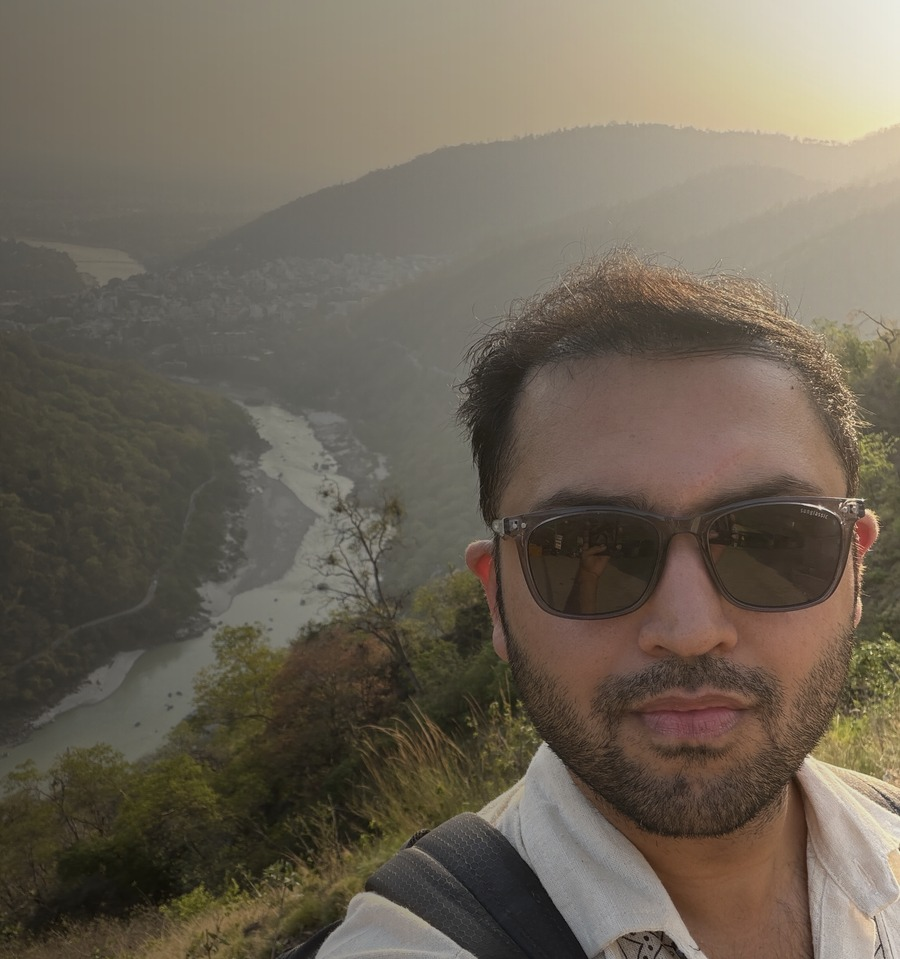
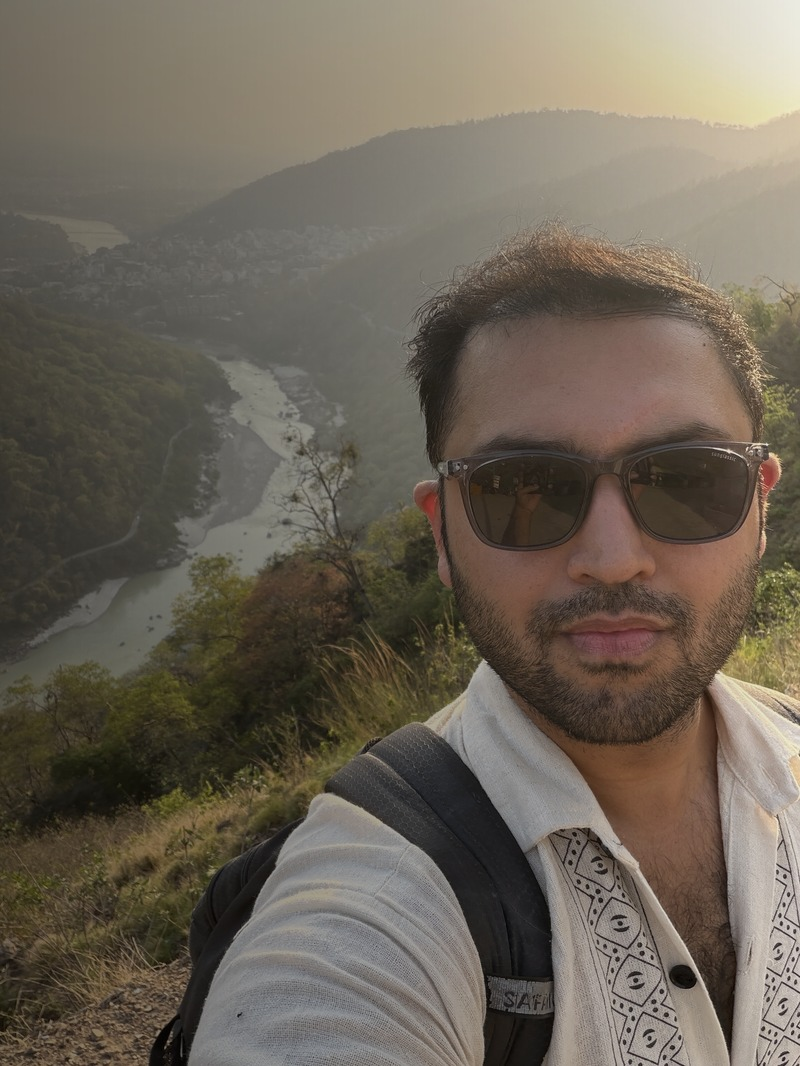
Add files via upload

diff --git a/index.html b/index.html
@@ -70,7 +70,7 @@
       position: absolute; inset: 0;
       background: linear-gradient(to right, rgba(10,10,10,0.72) 0%, rgba(10,10,10,0.45) 55%, rgba(10,10,10,0.15) 100%);
     }
-    .hero-slide.personal .slide-bg { background-position: center 70% !important; }
+    .hero-slide.personal .slide-bg { background-position: center 45% !important; }
     .personal .slide-overlay {
       background: linear-gradient(to right, rgba(12,8,4,0.68) 0%, rgba(12,8,4,0.40) 55%, rgba(12,8,4,0.10) 100%);
     }
